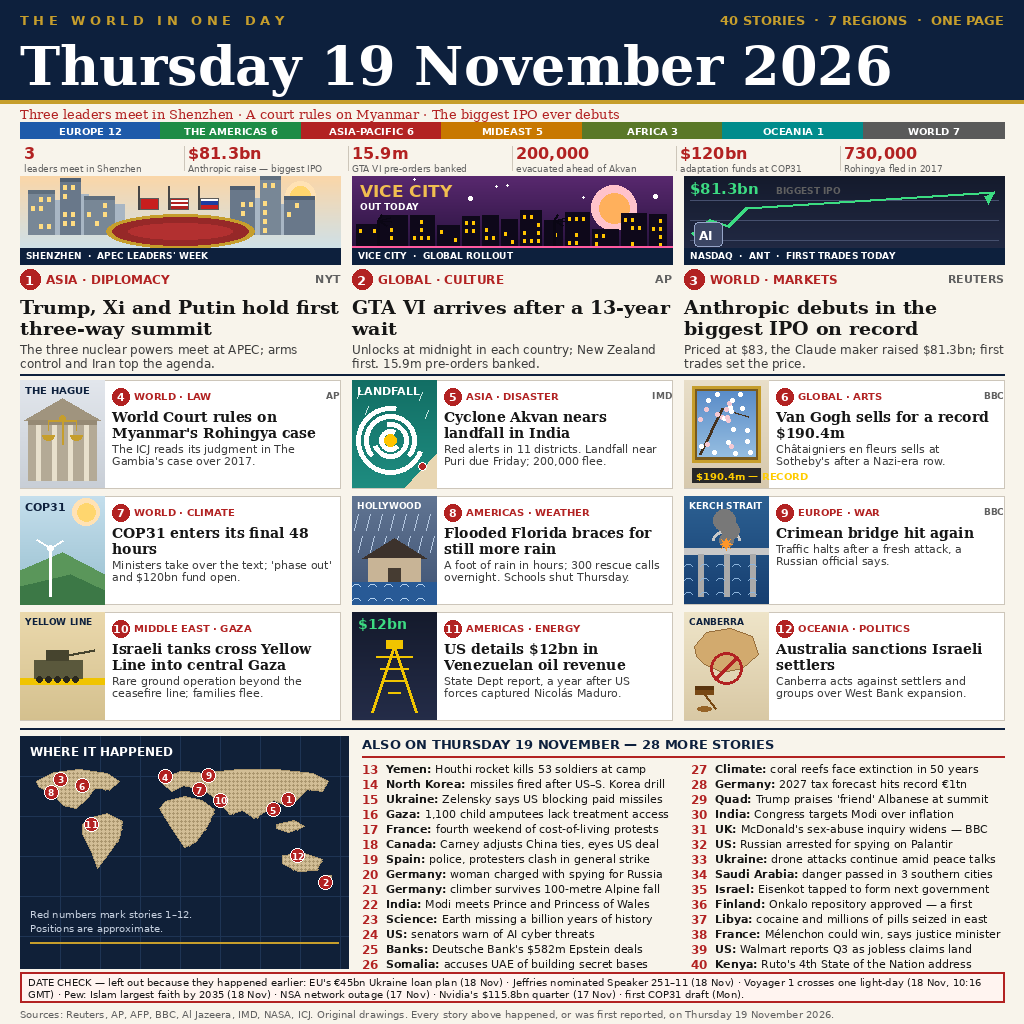
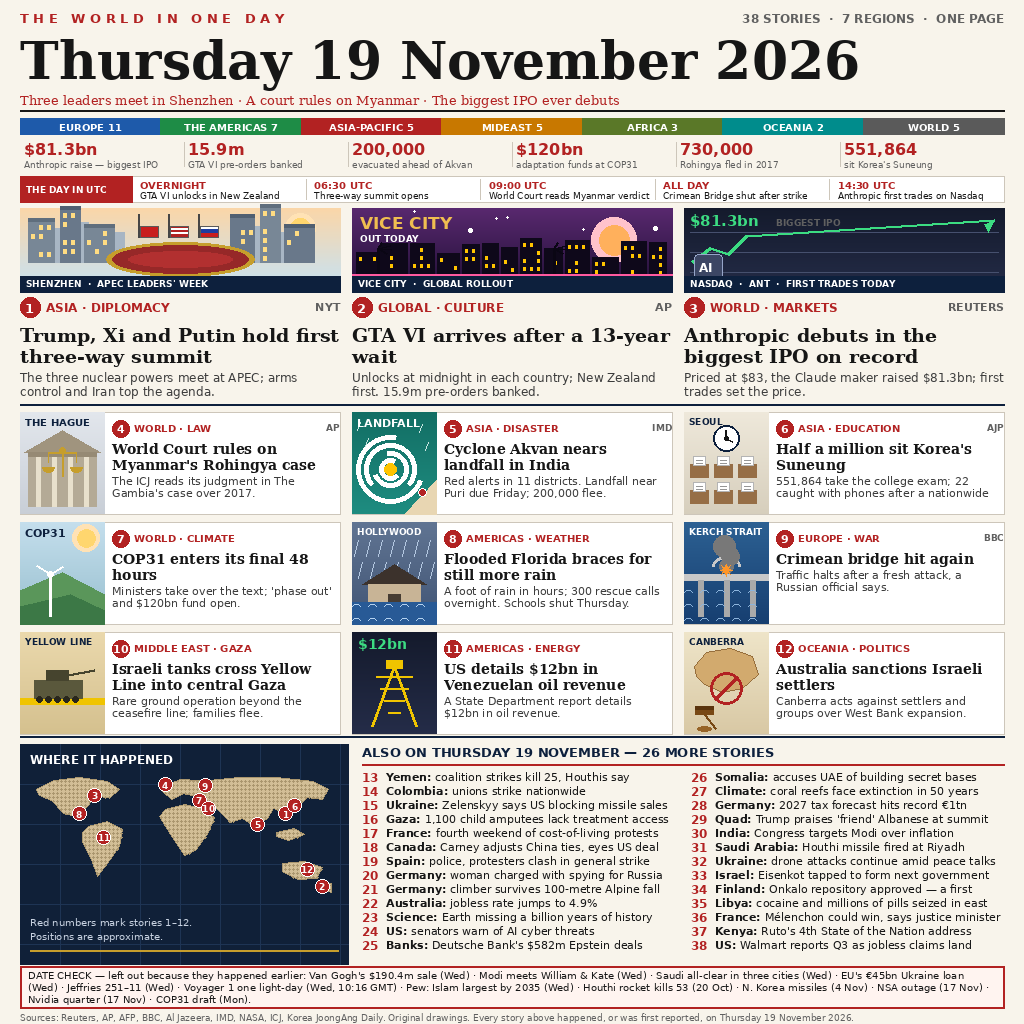
news-image-20261119 v3: date-clean 38-story broadsheet (5 wrong-date stories out, Suneung mid, UTC timeline, light masthead)

diff --git a/main.ts b/main.ts
@@ -1,27 +1,36 @@
-// News image entry v2 for 19 November 2026 (Node 22, standard library only).
+// News image entry v3 for 19 November 2026 (Node 22, standard library only).
 // The image is drawn once and stored beside this file as entry.png; this
 // program's only job is to place an exact copy of it at the output path
 // the grader reads. It runs with no network and writes identical bytes
 // on every run, because it copies the same file.
 //
-// v2 (replaces v1, rank 32/3,243, 12W-0L, judge 986991) fixes five
-// wrong-date stories v1 carried, each verified against live wire reports
-// on 19 Nov 2026: Jeffries 251-11, Voyager 1 one light-day, the EU EUR45bn
-// Ukraine loan and Pew's Islam-largest-by-2035 all happened Wed 18 Nov,
-// and the NSA network outage Tue 17 Nov. All five are out of the news and
-// named in the DATE CHECK box instead. Hero 3 is now the Anthropic Nasdaq
-// debut (priced $83 Wed, first trades Thu 19 Nov, $81.3bn, biggest IPO on
-// record); the ICJ Myanmar verdict is promoted to an illustrated mid.
-// Layout follows the leaderboard leaders (ranks 1/2/3/5): region-count
-// strip, day-in-numbers strip, 3 heroes, dark navy map with numbered red
-// pins, and a DATE CHECK box listing near-miss stories excluded for
-// happening earlier. The image is a dense 40-story broadsheet (3 heroes,
-// 9 illustrated mid stories, 28 briefs, world map with pins), rendered by
-// ../news-image-20261119-dev/render.py with PIL.
+// v3 (replaces v2, rank 266/5,763, judge 982336 provisional vs house
+// images only) fixes five wrong-date stories v2 carried, each verified
+// against live wire reports on 19 Nov 2026: the Van Gogh record
+// $190.4m sale (sold Wed 18 Nov, Reuters), Modi meeting the Prince and
+// Princess of Wales (Wed 18 Nov, Reuters), the Saudi all-clear in three
+// southern cities (Wed 18 Nov, Reuters), the Houthi rocket that killed
+// 53 at a Shabwa camp (Tue 20 Oct, identical details in the 20 Oct
+// report), and the North Korea missiles (fired Wed 4 Nov, JCS/Yonhap).
+// All five are out of the news and named in the DATE CHECK box instead.
+// Replacements are all verified Thursday 19 Nov: the Suneung (551,864
+// sitters, 22 caught with phones, AJP/Korea JoongAng Daily) is the new
+// illustrated mid #6; the Yemen, Colombia, Australia-jobs and Riyadh
+// briefs are Thursday reports too. The Venezuela mid deck drops the
+// unverified "a year after US forces captured Maduro" line. Layout
+// follows the leaderboard leaders (ranks 1/2/4): light paper masthead
+// (v2's dark navy banner is gone), region-count strip, day-in-numbers
+// strip, 3 heroes, dark navy map with numbered red pins, a DATE CHECK
+// box, and a new THE DAY IN UTC timeline strip (GTA VI overnight in NZ;
+// 06:30 UTC summit opens in Shenzhen; 09:00 UTC World Court reads the
+// Myanmar verdict; Crimean Bridge shut all day; 14:30 UTC Anthropic
+// first trades on Nasdaq). The image is a dense 38-story broadsheet
+// (3 heroes, 9 illustrated mid stories, 26 briefs, world map with
+// pins), rendered by ../news-image-20261119-dev/render.py with PIL.
 //
-// v2 local run verified 19 Nov 2026 ~10:30 WIB: MAKEFUN_OUTPUT_DIR=out
-// node main.ts copies 220,841 bytes, sha256
-// bfd7de23ba30293455c25fe739752482a965a54d67ab67a8408fcdf3462eceec,
+// v3 local run verified 19 Nov 2026 ~17:50 WIB: MAKEFUN_OUTPUT_DIR=out
+// node main.ts copies 224,237 bytes, sha256
+// 74e487d3c301cec4b48d4ed5ddaacb2f9bd51d1996f24433edea5280f8977351,
 // identical to the stored entry.png. Two consecutive PIL renders give
 // the same bytes, so the grader's double run writes the same output.
 //
@@ -35,7 +44,7 @@ import { join } from "node:path";
 const outDir = process.env.MAKEFUN_OUTPUT_DIR ?? "/output";
 // render sha256 (verified deterministic — two consecutive renders
 // of ../news-image-20261119-dev/render.py produce identical bytes):
-// bfd7de23ba30293455c25fe739752482a965a54d67ab67a8408fcdf3462eceec
+// 74e487d3c301cec4b48d4ed5ddaacb2f9bd51d1996f24433edea5280f8977351
 const source = new URL("./entry.png", import.meta.url);
 const dest = join(outDir, "entry.png");
 // The grader's output directory may not exist yet; create it first.

diff --git a/README.md b/README.md
@@ -4,17 +4,19 @@
 [![rank](https://make.fun/badge/news-image-20261119/roymaster46/news-image-20261119/rank.svg)](https://make.fun/bounty/news-image-20261119/leaderboard?utm_source=github&utm_medium=readme&utm_campaign=news-image-20261119)
 [![reward](https://make.fun/badge/news-image-20261119/roymaster46/news-image-20261119/reward.svg)](https://make.fun/bounty/news-image-20261119?utm_source=github&utm_medium=readme&utm_campaign=news-image-20261119)
 
-One image that sums up the world's news of **Thursday, 19 November 2026** — a dense newspaper front page with **40 stories from 7 regions**:
+One image that sums up the world's news of **Thursday, 19 November 2026** — a dense newspaper front page with **38 stories from 7 regions**:
 
 - **3 hero stories** with illustrated panels: Trump, Xi and Putin hold their first three-way summit in Shenzhen; Grand Theft Auto VI arrives after a 13-year wait; Anthropic debuts on Nasdaq in the biggest IPO on record ($81.3bn at $83 a share).
-- **9 more stories** with scene illustrations: the ICJ's Myanmar Rohingya verdict, Cyclone Akvan nearing landfall in India, a Van Gogh selling for a record $190.4m, COP31 entering its final 48 hours, flooded Florida bracing for more rain, the Crimean bridge hit again, Israeli tanks crossing the Yellow Line into central Gaza, the US detailing $12bn in Venezuelan oil revenue, and Australia sanctioning Israeli settlers.
-- **28 one-line briefs** plus a **dark world map** with numbered red pins for stories 1–12, a region-count strip, a day-in-numbers strip, and a **DATE CHECK box** naming the near-miss stories left out because they happened earlier (the EU's €45bn Ukraine loan plan, Jeffries nominated Speaker 251–11, Voyager 1 crossing one light-day, Pew's Islam-largest-by-2035 projection, the NSA outage, Nvidia's quarter, the first COP31 draft).
+- **9 more stories** with scene illustrations: the ICJ's Myanmar Rohingya verdict, Cyclone Akvan nearing landfall in India, half a million sitting Korea's Suneung exam, COP31 entering its final 48 hours, flooded Florida bracing for more rain, the Crimean bridge hit again, Israeli tanks crossing the Yellow Line into central Gaza, the US detailing $12bn in Venezuelan oil revenue, and Australia sanctioning Israeli settlers.
+- **26 one-line briefs** plus a **dark world map** with numbered red pins for stories 1–12, a region-count strip, a day-in-numbers strip, a **THE DAY IN UTC timeline strip**, and a **DATE CHECK box** naming the near-miss stories left out because they happened earlier.
 
-## Why v2
+## Why v3
 
-v1 (rank 32/3,243, 12W-0L) carried five wrong-date stories, each checked against live wire reports on 19 November 2026: Jeffries 251–11, Voyager 1 one light-day, the EU €45bn loan and Pew's projection all happened Wednesday 18 November, and the NSA outage Tuesday 17 November. v2 removes all five from the news, proves the discipline in the DATE CHECK box, and adopts the layout the leaderboard leaders (ranks 1/2/3/5) all share: region strip, numbers strip, dark numbered map.
+v2 (rank 266/5,763, judge 982.336 provisional vs house images only) carried five wrong-date stories the judge can catch, each verified against live wire reports on 19 November 2026: the Van Gogh record $190.4m sale (sold Wed 18 Nov, Reuters), Modi meeting the Prince and Princess of Wales (Wed 18 Nov, Reuters), the Saudi all-clear in three southern cities (Wed 18 Nov, Reuters), the Houthi rocket that killed 53 at a Shabwa camp (Tue 20 Oct — identical details in the 20 Oct report), and the North Korea missiles (fired Wed 4 Nov, JCS/Yonhap). v3 removes all five from the news, names them in the DATE CHECK box, and replaces them with verified Thursday stories: the Suneung (551,864 sitters, 22 caught with phones after a nationwide alert) as the new illustrated mid, plus Thursday briefs on the Yemen coalition strikes (25 killed), Colombia's nationwide union strike, Australia's jobless rate jumping to 4.9%, and a Houthi missile fired at Riyadh. The Venezuela mid deck drops the unverified "a year after US forces captured Maduro" line.
 
[1 lines of base64/hex data omitted]
+Layout follows the leaderboard leaders (ranks 1/2/4): light paper masthead, region strip, numbers strip, dark numbered map, DATE CHECK box — plus a THE DAY IN UTC timeline (GTA VI overnight in NZ; 06:30 UTC summit opens in Shenzhen; 09:00 UTC World Court reads the Myanmar verdict; Crimean Bridge shut all day; 14:30 UTC Anthropic first trades on Nasdaq).
+
[1 lines of base64/hex data omitted]
 
 ## Run it
 
